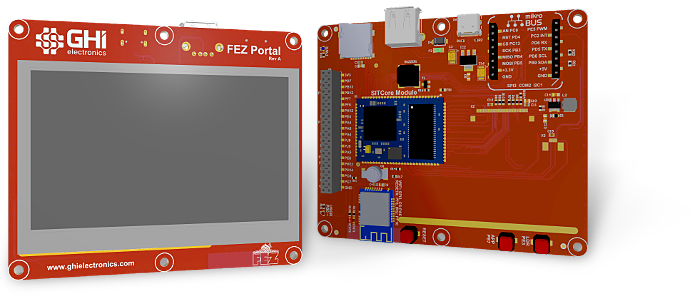
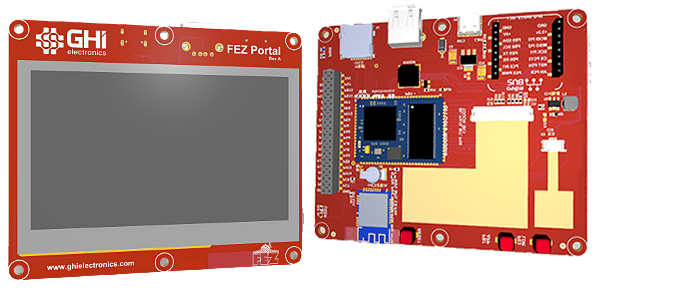
Changed Portal Image and added Resource image

Changed region(s): [[0.0, 0.0, 0.8763, 0.96], [0.0, 0.06, 0.423, 0.12]]

diff --git a/software/tinyclr/resources.md b/software/tinyclr/resources.md
@@ -1,6 +1,6 @@
 # Resources
 ---
-![.NET vs TinyCLR OS](images/resources.png)
+![.NET vs TinyCLR OS](images/resources-noborder.png)
 
 ## Professional Community
 Our forum consists of intelligent professionals building commercial products based on SITCore and TinyCLR OS. And it is monitored and supported by our staff.
